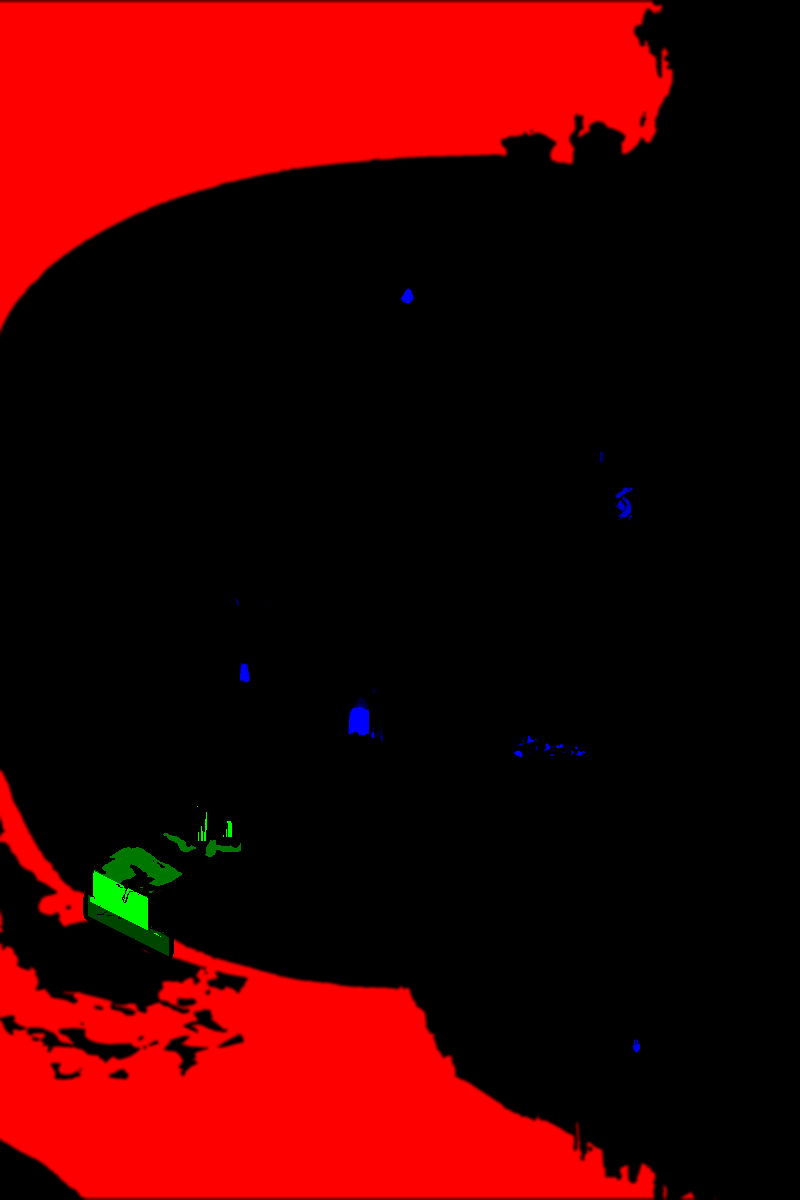
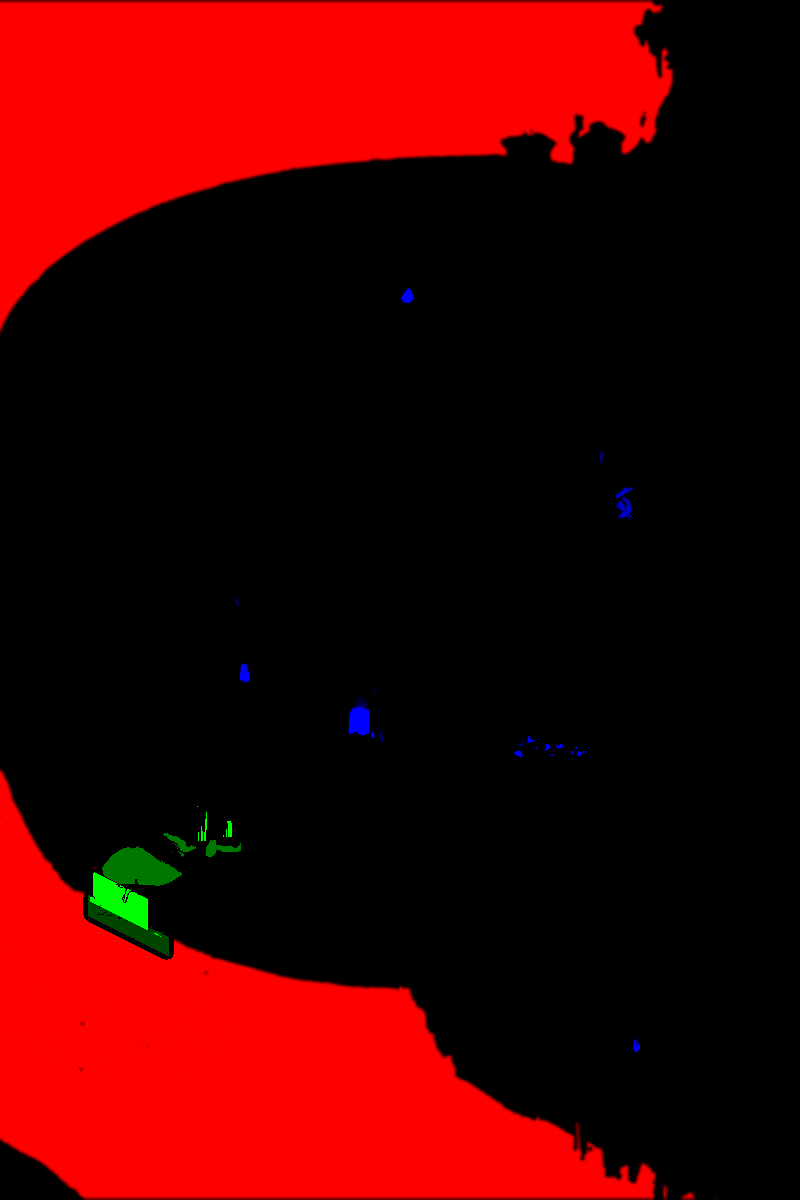
District : la nappe du déversoir glisse vers la lèvre avant de tomber, la mer au pied de la digue a un ressac (écume crème animée, frange d'écume, éclats)
Claude-Session: https://claude.ai/code/session_01YVrYiWQbPN4HfRnPJAeCEM

Changed region(s): [[0.0, 0.6783, 0.3125, 0.925], [0.1562, 0.7092, 0.1875, 0.74]]

diff --git a/src/ui/houle.ts b/src/ui/houle.ts
@@ -5,6 +5,8 @@
 //  - le fourneau de la Forge vacille et rougeoie, et sa cheminée fume : un panache qui monte, se tord et part avec le vent.
 // Bryan (2 novembre 2026) : des halos ronds qui pulsent et une cascade qui ondule, « hyper cheap » ; ici, tout part des pixels
 // du tableau lui-même, découpés par trois masques (scripts/cuvette-animation-masques.py).
+// Bryan (même soir) : la nappe juste avant la chute restait figée et la mer au pied de la digue aussi ; la nappe glisse
+// désormais vers la lèvre, et la mer a un ressac (vagues qui montent vers la digue, frange d'écume, éclats sur l'écume crème).
 // Tout se calcule sur la carte graphique, 30 images par seconde au plus ; la houle s'éteint vers les bords du tableau et ne
 // déborde jamais sur la digue. Rien ne tourne si le joueur a réduit les animations, si WebGL manque, ou hors du district.
 
@@ -52,15 +54,40 @@ void main(){
   vec2 e=p-FUMEE;float hf=-e.y;
   bool fumee=hf>-4.&&hf<104.&&e.x>-20.&&e.x<62.;
   if(mer+eau+cr+feu+hc+fh<.015&&!fumee)discard;
-  vec2 q=uv;float w=0.,bord=0.;
+  vec2 q=uv;float w=0.,bord=0.,ress=0.,prox=0.;
   if(mer>.02){
+    // la houle de fond, plus le ressac : des vagues qui montent vers la digue, poussent l'écume peinte contre elle puis la ramènent
+    float d=texture2D(m3,uv).g;
+    vec2 ex=vec2(2./400.,0.),ey=vec2(0.,2./600.);
+    vec2 gr=vec2(texture2D(m3,uv+ex).g-texture2D(m3,uv-ex).g,texture2D(m3,uv+ey).g-texture2D(m3,uv-ey).g);
+    vec2 vers=-gr/max(length(gr),.0005);
+    prox=1.-smoothstep(.05,1.,d);
+    ress=sin(d*11.-t*1.15+(n(p*.025+vec2(0.,t*.05))-.5)*2.4);
     w=sin(p.x*.045+p.y*.11-t*1.1)*.6+sin(-p.x*.07+p.y*.05-t*.7)*.4+sin(p.y*.31+p.x*.02-t*2.3)*.15;
     bord=smoothstep(0.,.07,uv.x)*smoothstep(0.,.07,1.-uv.x)*smoothstep(0.,.05,uv.y)*smoothstep(0.,.03,1.-uv.y);
-    q=uv+vec2(sin(p.y*.09+p.x*.02-t*.9)*.7,w)*.0024*bord;
+    // en pixels du tableau (repère 400 × 600) : la houle déplace d'1 px, le ressac jusqu'à 3,5 px près du bord
+    vec2 dpx=vec2(sin(p.y*.09+p.x*.02-t*.9)*.9,w*1.3)+vers*ress*(.6+2.9*prox)*step(.0005,length(gr));
+    // l'écume dérive doucement le long du rivage
+    dpx+=vec2(vers.y,-vers.x)*(n(p*.04+vec2(t*.12,0.))-.5)*1.6*prox;
+    q=uv+dpx/vec2(400.,600.)*bord;
     if(texture2D(m1,q).r<.5)q=uv;
   }
   vec3 c=texture2D(img,q).rgb;
-  if(mer>.02){float cr2=smoothstep(.55,1.,w*.5+.5);c*=1.+bord*mer*(.07*cr2-.035*(1.-cr2));}
+  if(mer>.02){
+    float cr2=smoothstep(.55,1.,w*.5+.5);c*=1.+bord*mer*(.07*cr2-.035*(1.-cr2));
+    // la vague qui arrive éclaircit l'eau devant elle, celle qui se retire l'assombrit
+    c*=1.+bord*mer*prox*.06*ress;
+    // une frange d'écume vivante contre la digue : elle monte quand la vague touche et se déchire en dentelle
+    float d=texture2D(m3,uv).g;
+    float frange=1.-smoothstep(0.,.05+.07*(ress*.5+.5),d);
+    float dentelle=smoothstep(.48,.78,fbm(p*vec2(.22,.3)+vec2(t*.35,-t*.25)));
+    c=mix(c,vec3(.99,.97,.72),frange*dentelle*.75*bord*mer);
+    // et des éclats qui scintillent sur les plaques d'écume crème du tableau
+    float creme=smoothstep(.72,.9,dot(c,vec3(.33)))*step(c.b,c.r-.1);
+    float eclat=smoothstep(.78,.95,n(p*.5+vec2(t*.6,-t*.9))*.6+n(p*1.1-vec2(t*.8,t*.3))*.4);
+    c=mix(c,c*.86,creme*smoothstep(.55,.8,n(p*.18+vec2(-t*.3,t*.22)))*prox*mer);
+    c=ecran(c,vec3(.3)*eclat*creme*mer);
+  }
   if(eau>.02){
     float chute=smoothstep(.6,.9,eau);
     if(chute>.01){
@@ -71,12 +98,28 @@ void main(){
       vec3 c2=texture2D(m1,a2).g>.6?texture2D(img,a2).rgb:c;
       c=mix(c,mix(c1,c2,abs(f1*2.-1.)),chute);
     }
+    // la nappe du déversoir glisse vers la lèvre et accélère avant de tomber (Bryan : « l'eau juste avant de tomber ne bouge pas »)
+    float nappe=(1.-chute)*step(.35,eau)*step(p.x,94.)*step(419.,p.y);
+    if(nappe>.01){
+      vec2 D=normalize(vec2(-.62,.8));
+      float lev=437.+.5*(p.x-50.),vers=clamp(1.-(lev-p.y)/22.,0.,1.);   // 0 au fond, 1 sur la lèvre
+      float L=5.+5.*vers,g1=fract(t*1.2),g2=fract(t*1.2+.5);
+      vec2 b1=uv-D*g1*L/vec2(400.,600.),b2=uv-D*g2*L/vec2(400.,600.);
+      vec3 n1=texture2D(m1,b1).g>.3?texture2D(img,b1).rgb:c;
+      vec3 n2=texture2D(m1,b2).g>.3?texture2D(img,b2).rgb:c;
+      c=mix(c,mix(n1,n2,abs(g1*2.-1.)),.85);
+      vec2 e2=p-vec2(70.,435.);float along=dot(e2,D),across=dot(e2,vec2(D.y,-D.x));
+      float bande=sin(across*.42+(n(vec2(across*.15,along*.05))-.5)*4.);
+      float stries=smoothstep(.2,1.,bande)*smoothstep(.4,.8,n(vec2(across*.25,(along+vers*vers*9.)*.09-t*2.4)));
+      float tension=smoothstep(.6,1.,vers)*(.5+.5*n(vec2(across*.8,t*2.)));   // le bourrelet clair sur la lèvre
+      c=mix(c,vec3(.88,1.,.97),clamp(stries*(.35+.4*vers)+tension*.35,0.,1.));
+    }
     float f=n(vec2(p.x*1.5,p.y*.22-t*7.))*.6+n(vec2(p.x*2.6+7.,p.y*.35-t*10.))*.4;
     float filets=smoothstep(.5,.85,f);
     float rides=smoothstep(.6,.9,n(vec2(p.x*.45+t*.9,p.y*.7-t*1.8))*.7+n(vec2(p.x*.9-t*.4,p.y*1.3-t*2.6))*.3);
     float bulles=n(vec2(p.x*1.1+t*1.5,p.y*1.4-t*4.))*.6+n(vec2(p.x*2.7-t*2.,p.y*2.9-t*7.))*.4;
     float ecume=smoothstep(.45,1.,av)*smoothstep(.38,.75,bulles);
-    float s=chute*(filets*.75+ecume*.9)+(1.-chute)*(rides*.3+ecume*.85);
+    float s=chute*(filets*.75+ecume*.9)+(1.-chute)*(1.-nappe)*(rides*.3+ecume*.85);
     c*=1.-chute*.22*(1.-filets);
     c=mix(c,vec3(.88,1.,.97),clamp(s,0.,1.)*smoothstep(.02,.25,eau));
   }

diff --git a/scripts/cuvette-animation-masques.py b/scripts/cuvette-animation-masques.py
@@ -3,7 +3,7 @@
 #   cuvette-anim-1.webp : R = mer (houle), G = eau qui coule (255 chute, 120 nappe qui avance), B = cristaux (leurs pixels)
 #   cuvette-anim-2.webp : R = avancée dans la chute (0 en haut, 255 en bas, où naît l'écume), G = feu de la Forge,
 #                         B = halo des cristaux (leurs pixels floutés)
-#   cuvette-anim-3.webp : R = halo du feu
+#   cuvette-anim-3.webp : R = halo du feu, G = distance au rivage (0 contre la digue, 255 à 60 px au large), pour le ressac
 # usage : python3 scripts/cuvette-animation-masques.py   (depuis la racine du dépôt ; refait les trois fichiers)
 import numpy as np
 from PIL import Image, ImageFilter
@@ -26,8 +26,17 @@ eau_coul = (g > r + 25) & (b > r + 15)
 blanc = (lum > 175) & (b > 140)
 mouille = eau_coul | blanc
 levre = 437 + 0.5 * (X - 50)                          # le bord du déversoir
-chuteB = boite(45, 434, 80, 468) & (Y >= levre) & (Y <= levre + 16) & mouille
+chuteB = boite(45, 434, 80, 468) & (Y >= levre + .5) & (Y <= levre + 16) & mouille
 nappeB = boite(45, 420, 92, 448) & (Y < levre) & eau_coul
+# la nappe d'un seul tenant, reflets clairs compris (sinon ses reflets restent figés pendant que l'eau autour glisse)
+from scipy import ndimage as nd
+from scipy.spatial import ConvexHull
+from PIL import ImageDraw
+pts = np.argwhere(nd.binary_opening(nappeB, iterations=1))[:, ::-1]
+coque = Image.new('L', (W, H), 0)
+ImageDraw.Draw(coque).polygon([tuple(pts[i]) for i in ConvexHull(pts).vertices], fill=1)
+clair = (lum > 150) & (r - b < 60)                     # les reflets pâles de la nappe, pas la margelle brune
+nappeB = nd.binary_fill_holes((np.asarray(coque) > 0) & (eau_coul | clair)) & (Y < levre + .5)
 chuteA = (boite(96, 396, 104, 420) | boite(106, 399, 116, 418)) & mouille
 bassinA = boite(78, 414, 120, 432) & eau_coul & ~chuteA
 eau = np.zeros((H, W))
@@ -58,10 +67,21 @@ feu = np.where(boite(110, 270, 136, 298) | boite(83, 193, 97, 207), orange, 0)  
 
 # la mer, sans la chute ni la nappe (elles coulent, elles n'ondulent pas)
 mer = np.asarray(Image.open(D + 'cuvette-houle.webp').convert('L').resize((W, H), Image.LANCZOS)).astype(float) / 255
+# le masque d'origine laissait de côté les grandes plaques d'écume crème au pied de la digue (Bryan, 2 nov. : « l'eau autour
+# de la cuvette, pas moyen de l'avoir animée ? ») : tout trou fermé dans la mer, sous la digue, redevient de la mer
+from scipy import ndimage as nd
+trous, nb = nd.label(mer < .5)
+tailles = nd.sum(np.ones_like(trous), trous, range(1, nb + 1))
+for i in range(1, nb + 1):
+    if i == 1 + int(np.argmax(tailles)): continue           # la ville elle-même
+    sel = trous == i
+    if Y[sel].mean() > 380: mer[nd.binary_dilation(sel, iterations=3)] = 1
+# la distance au rivage, pour faire monter les vagues vers la digue (calculée sur la mer entière, chute comprise)
+rivage = np.clip(nd.distance_transform_edt(mer > .3) / 2.0 / 60, 0, 1)
 mer[lisse((eau > 0).astype(float), 3) > .05] = 0
 
 u8 = lambda a: (np.clip(a, 0, 1) * 255).astype(np.uint8)
 Image.fromarray(np.dstack([u8(mer), u8(eau), u8(cristal)])).save(D + 'cuvette-anim-1.webp', lossless=True)
 Image.fromarray(np.dstack([u8(avance), u8(feu), u8(lisse(cristal, 9) * 2.2)])).save(D + 'cuvette-anim-2.webp', lossless=True)
-Image.fromarray(np.dstack([u8(lisse(feu, 12) * 2.5)] * 3)).save(D + 'cuvette-anim-3.webp', lossless=True)
+Image.fromarray(np.dstack([u8(lisse(feu, 12) * 2.5), u8(lisse(rivage, 2)), u8(rivage * 0)])).save(D + 'cuvette-anim-3.webp', lossless=True)
 print('eau', int((eau > 0).sum()), 'chute', int((chuteA | chuteB).sum()), 'cristal', int((cristal > .3).sum()), 'feu', int((feu > .3).sum()))
